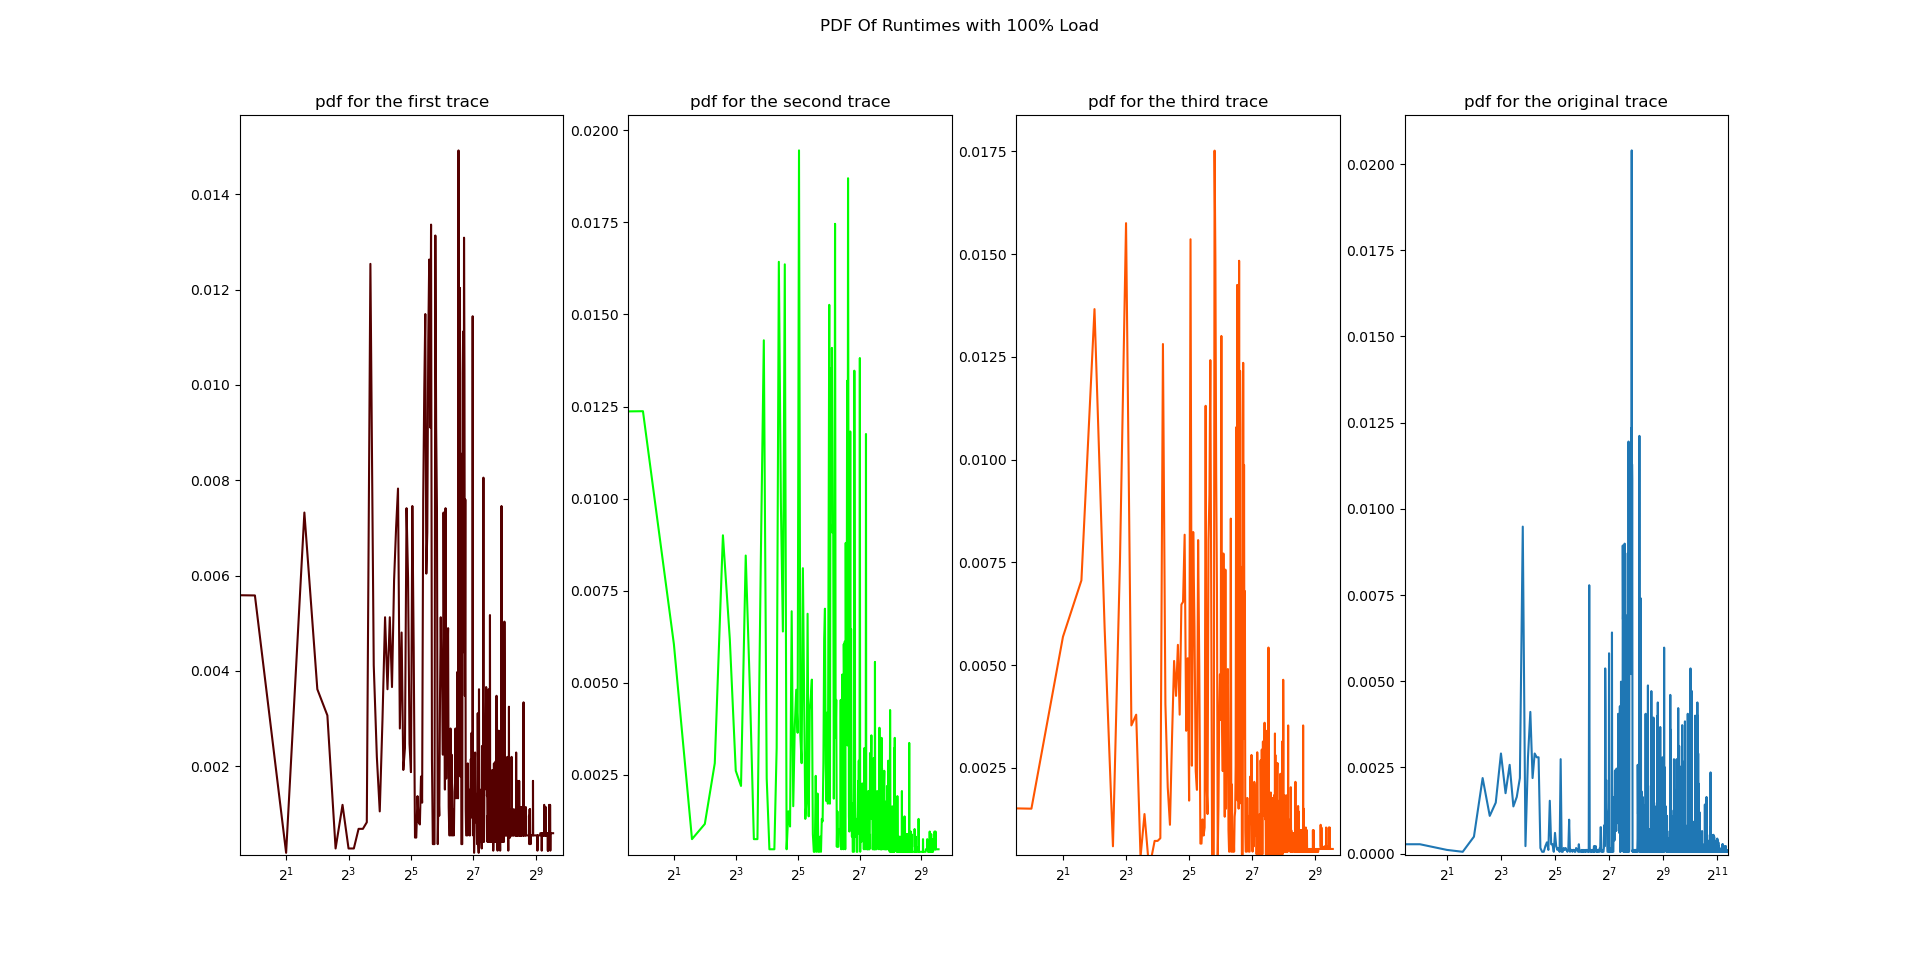
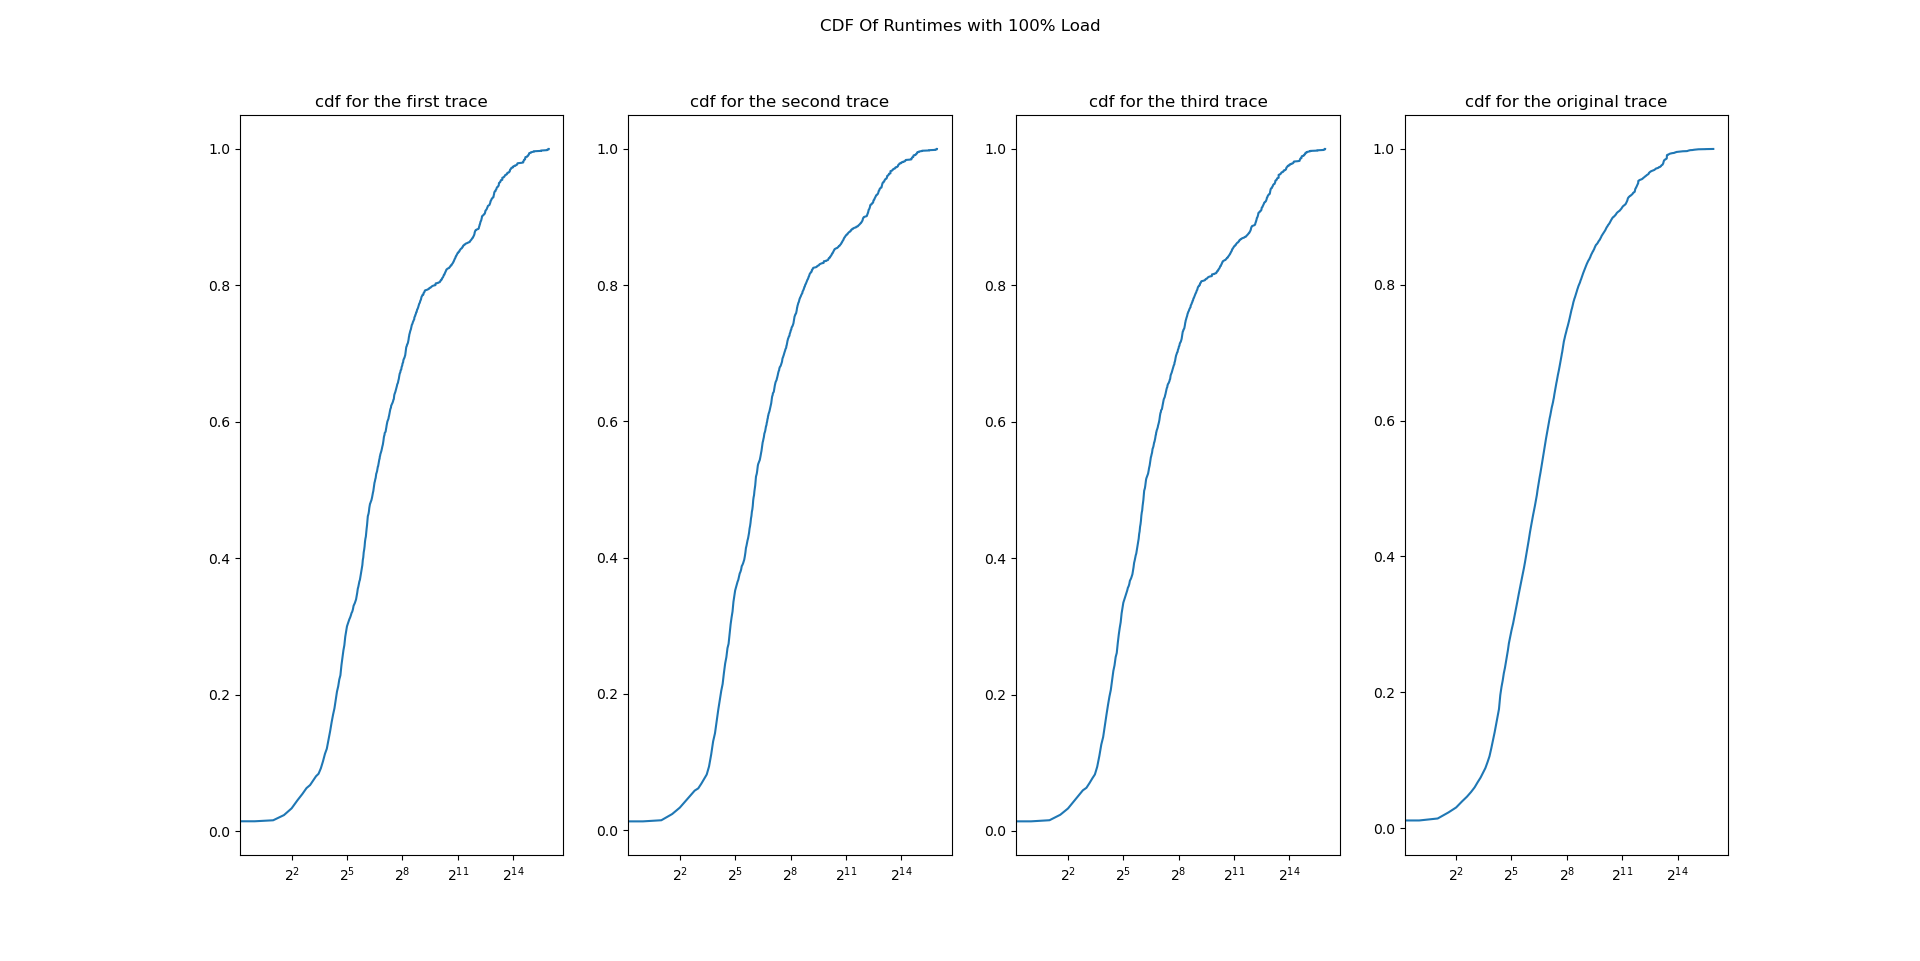
,

diff --git a/Stage9/Validation.py b/Stage9/Validation.py
@@ -3,15 +3,15 @@ import math
 import matplotlib.pyplot as plt
 from hurst import compute_Hc
 from statsmodels.distributions.empirical_distribution import ECDF
-outputload80_1="TEST\\outputload80_1.txt"
-outputload80_2="TEST\\outputload80_2.txt"
-outputload80_3="TEST\\outputload80_3.txt"
-outputload100_1="TEST\\outputload100_1.txt"
-outputload100_2="TEST\\outputload100_2.txt"
-outputload100_3="TEST\\outputload100_3.txt"
-outputload120_1="TEST\\outputload120_1.txt"
-outputload120_2="TEST\\outputload120_2.txt"
-outputload120_3="TEST\\outputload120_3.txt"
+outputload80_1="Output2\\outputload80_1.txt"
+outputload80_2="Output2\\outputload80_2.txt"
+outputload80_3="Output2\\outputload80_3.txt"
+outputload100_1="Output2\\outputload100_1.txt"
+outputload100_2="Output2\\outputload100_2.txt"
+outputload100_3="Output2\\outputload100_3.txt"
+outputload120_1="Output2\\outputload120_1.txt"
+outputload120_2="Output2\\outputload120_2.txt"
+outputload120_3="Output2\\outputload120_3.txt"
 original_log="..\\Stage8\\NASA-iPSC-1993-3.1-cln.SWF"
 Log_load80_1=[]
 Log_load80_2=[]
@@ -147,12 +147,16 @@ def Interarrivals(Log):
         Prev_submit=Submit_time
     for time in Interarrivals_counter:
         Interarrivals_pdf.setdefault(time,Interarrivals_counter[time]/n)
-    for i in range(len(Interarrivals_pdf.keys())):
-        num=0
-        for j in range(i):
-            num+=Interarrivals_pdf[j]
-        Interarrivals_pdf[i]=num
-    return Interarrivals_data,Interarrivals_pdf
+    X=[]
+    Y=[]
+    for i in sorted (Interarrivals_pdf.keys()) : 
+        X.append(i)
+        Y.append(Interarrivals_pdf[i])
+    i=1
+    while i < len(Y):
+        Y[i]=Y[i]+Y[i-1]
+        i+=1
+    return Interarrivals_data,X,Y
 
 def Consumption(Log,boool):
     if boool:
@@ -192,14 +196,18 @@ def Runtimes(Log):
         else:
             Runtimes_counter.setdefault(Runtime,1)
         n+=1
-    for time in Runtimes_counter.keys():
-        Runtimes_pdf.setdefault(time,Runtimes_counter[time]/n)
-    for i in range(len(Runtimes_pdf.keys())):
-        num=0
-        for j in range(i):
-            num+=Runtimes_pdf[j]
-        Runtimes_pdf[i]=num
-    return Runtime_data,Runtimes_pdf
+    for key in Runtimes_counter:
+        Runtimes_pdf.setdefault(key,Runtimes_counter[key]/len(Runtime_data))
+    X=[]
+    Y=[]
+    for i in sorted (Runtimes_pdf.keys()) : 
+        X.append(i)
+        Y.append(Runtimes_pdf[i])
+    i=1
+    while i < len(Y):
+        Y[i]=Y[i]+Y[i-1]
+        i+=1
+    return Runtime_data,X,Y
 
 def UserDistribution(Log):
     UsersIDs=[]
@@ -330,25 +338,37 @@ def LoadMeasurment(Data1,Data2,Data3,Original,title):
     plt.show()
     return
 
-def CDFsCompare(pdf1,pdf2,pdf3,original,load,attrib):
-    fig, (ax1, ax2,ax3,ax4) = plt.subplots(1, 4)
+def CDFsCompare(X1,Y1,X2,Y2,X3,Y3,X,Y,load,attrib):
+    # fig, (ax1, ax2,ax3,ax4) = plt.subplots(1, 4)
+    # fig.suptitle('CDF Of '+attrib+' with '+str(load)+'% Load')
+    # ax1.set_title('cdf for the first trace')
+    # ax2.set_title('cdf for the second trace')
+    # ax3.set_title('cdf for the third trace')
+    # ax4.set_title('cdf for the original trace')
+    # ax1.plot(X1,Y1,label='Trace1')
+    # ax2.plot(X2,Y2,label='Trace2')
+    # ax3.plot(X3,Y3,label='Trace3')
+    # ax4.plot(X,Y,label='Original Trace')
+    # ax1.set_xlabel('Time In Seconds')
+    # ax2.set_xlabel('Time In Seconds')
+    # ax3.set_xlabel('Time In Seconds')
+    # ax4.set_xlabel('Time In Seconds')
+    # ax1.set_ylabel('Probability')
+    # ax1.set_xscale('log',base=2)
+    # ax2.set_xscale('log',base=2)
+    # ax3.set_xscale('log',base=2)
+    # ax4.set_xscale('log',base=2)
+    # plt.show()
+    fig, ax1 = plt.subplots()
     fig.suptitle('CDF Of '+attrib+' with '+str(load)+'% Load')
-    ax1.set_title('cdf for the first trace')
-    ax2.set_title('cdf for the second trace')
-    ax3.set_title('cdf for the third trace')
-    ax4.set_title('cdf for the original trace')
-    Y1=list(pdf1.values())
-    Y2=list(pdf2.values())
-    Y3=list(pdf3.values())
-    Y=list(original.values())
-    ax1.plot(Y1,label='Trace1')
-    ax2.plot(Y2,label='Trace2')
-    ax3.plot(Y3,label='Trace3')
-    ax4.plot(Y,label='Original Trace')
+    ax1.plot(X1,Y1,label='CDF for the first trace')
+    ax1.plot(X2,Y2,label='CDF for the second trace')
+    ax1.plot(X3,Y3,label='CDF for the third trace')
+    ax1.plot(X,Y,label='CDF for the original trace')
+    ax1.set_xlabel('Time In Seconds')
+    ax1.set_ylabel('Probability')
     ax1.set_xscale('log',base=2)
-    ax2.set_xscale('log',base=2)
-    ax3.set_xscale('log',base=2)
-    ax4.set_xscale('log',base=2)
+    ax1.set_yscale('log',base=10)
     plt.show()
     return
 
@@ -611,50 +631,49 @@ with open(original_log, "r") as swf_file:
 
 Original_Log=AdjustThinkTimes(Original_Log)
 #Generate interarrivals lists and pdf
-Interarrivals_data_load80_1,Interarrivals_pdf_load80_1=Interarrivals(Log_load80_1)
-Interarrivals_data_load80_2,Interarrivals_pdf_load80_2=Interarrivals(Log_load80_2)
-Interarrivals_data_load80_3,Interarrivals_pdf_load80_3=Interarrivals(Log_load80_3)
-Interarrivals_data_load100_1,Interarrivals_pdf_load100_1=Interarrivals(Log_load100_1)
-Interarrivals_data_load100_2,Interarrivals_pdf_load100_2=Interarrivals(Log_load100_2)
-Interarrivals_data_load100_3,Interarrivals_pdf_load100_3=Interarrivals(Log_load100_3)
-Interarrivals_data_load120_1,Interarrivals_pdf_load120_1=Interarrivals(Log_load100_1)
-Interarrivals_data_load120_2,Interarrivals_pdf_load120_2=Interarrivals(Log_load120_2)
-Interarrivals_data_load120_3,Interarrivals_pdf_load120_3=Interarrivals(Log_load120_3)
-Interarrivals_data,Interarrivals_pdf=Interarrivals(Original_Log)
-
-CDFsCompare(Interarrivals_pdf_load80_1, Interarrivals_pdf_load80_2, Interarrivals_pdf_load80_3, Interarrivals_pdf, 80, 'Interarrival Times')
-CDFsCompare(Interarrivals_pdf_load100_1, Interarrivals_pdf_load100_2, Interarrivals_pdf_load100_3, Interarrivals_pdf, 100, 'Interarrival Times')
-CDFsCompare(Interarrivals_pdf_load120_1, Interarrivals_pdf_load120_2, Interarrivals_pdf_load120_3, Interarrivals_pdf, 120, 'Interarrival Times')
+Interarrivals_data_load80_1,Xload80_1,Y_load80_1=Interarrivals(Log_load80_1)
+Interarrivals_data_load80_2,Xload80_2,Y_load80_2=Interarrivals(Log_load80_2)
+Interarrivals_data_load80_3,Xload80_3,Y_load80_3=Interarrivals(Log_load80_3)
+Interarrivals_data_load100_1,Xload100_1,Y_load100_1=Interarrivals(Log_load100_1)
+Interarrivals_data_load100_2,Xload100_2,Y_load100_2=Interarrivals(Log_load100_2)
+Interarrivals_data_load100_3,Xload100_3,Y_load100_3=Interarrivals(Log_load100_3)
+Interarrivals_data_load120_1,Xload120_1,Y_load120_1=Interarrivals(Log_load100_1)
+Interarrivals_data_load120_2,Xload120_2,Y_load120_2=Interarrivals(Log_load120_2)
+Interarrivals_data_load120_3,Xload120_3,Y_load120_3=Interarrivals(Log_load120_3)
+Interarrivals_data,X,Y=Interarrivals(Original_Log)
+CDFsCompare(Xload80_1,Y_load80_1, Xload80_2,Y_load80_2, Xload80_3,Y_load80_3, X,Y, 80, 'Interarrival Times')
+CDFsCompare(Xload100_1,Y_load100_1, Xload100_2,Y_load100_2, Xload100_3,Y_load100_3, X,Y, 100, 'Interarrival Times')
+CDFsCompare(Xload120_1,Y_load120_1, Xload120_2,Y_load120_2, Xload120_3,Y_load120_3, X,Y, 120, 'Interarrival Times')
 
 # Generate Consumption lists and pdf
-ConsumptionData_load80_1,avg_load80_1=Consumption(Log_load80_1,False)
-ConsumptionData_load80_2,avg_load80_2=Consumption(Log_load80_2,False)
-ConsumptionData_load80_3,avg_load80_3=Consumption(Log_load80_3,False)
-ConsumptionData_load100_1,avg_load100_1=Consumption(Log_load100_1,False)
-ConsumptionData_load100_2,avg_load100_2=Consumption(Log_load100_2,False)
-ConsumptionData_load100_3,avg_load100_3=Consumption(Log_load100_3,False)
-ConsumptionData_load120_1,avg_load120_1=Consumption(Log_load120_1,False)
-ConsumptionData_load120_2,avg_load120_2=Consumption(Log_load120_2,False)
-ConsumptionData_load120_3,avg_load120_3=Consumption(Log_load120_3,False)
-ConsumptionData,avg_Original=Consumption(Original_Log,True)
-LoadMeasurment(ConsumptionData_load80_1, ConsumptionData_load80_2, ConsumptionData_load80_3, ConsumptionData,'Consumption Graph Of Each One Of The Realistic Traces With 80% Load And The Original Trace')
-LoadMeasurment(ConsumptionData_load100_1, ConsumptionData_load100_2, ConsumptionData_load100_3, ConsumptionData,'Consumption Graph Of Each One Of The Realistic Traces With 100% Load And The Original Trace')
-LoadMeasurment(ConsumptionData_load120_1, ConsumptionData_load120_2, ConsumptionData_load120_3, ConsumptionData,'Consumption Graph Of Each One Of The Realistic Traces With 120% Load And The Original Trace')
+# ConsumptionData_load80_1,avg_load80_1=Consumption(Log_load80_1,False)
+# ConsumptionData_load80_2,avg_load80_2=Consumption(Log_load80_2,False)
+# ConsumptionData_load80_3,avg_load80_3=Consumption(Log_load80_3,False)
+# ConsumptionData_load100_1,avg_load100_1=Consumption(Log_load100_1,False)
+# ConsumptionData_load100_2,avg_load100_2=Consumption(Log_load100_2,False)
+# ConsumptionData_load100_3,avg_load100_3=Consumption(Log_load100_3,False)
+# ConsumptionData_load120_1,avg_load120_1=Consumption(Log_load120_1,False)
+# ConsumptionData_load120_2,avg_load120_2=Consumption(Log_load120_2,False)
+# ConsumptionData_load120_3,avg_load120_3=Consumption(Log_load120_3,False)
+# ConsumptionData,avg_Original=Consumption(Original_Log,True)
+# LoadMeasurment(ConsumptionData_load80_1, ConsumptionData_load80_2, ConsumptionData_load80_3, ConsumptionData,'Consumption Graph Of Each One Of The Realistic Traces With 80% Load And The Original Trace')
+# LoadMeasurment(ConsumptionData_load100_1, ConsumptionData_load100_2, ConsumptionData_load100_3, ConsumptionData,'Consumption Graph Of Each One Of The Realistic Traces With 100% Load And The Original Trace')
+# LoadMeasurment(ConsumptionData_load120_1, ConsumptionData_load120_2, ConsumptionData_load120_3, ConsumptionData,'Consumption Graph Of Each One Of The Realistic Traces With 120% Load And The Original Trace')
 
-# Generate Runtime lists and pdf
-Runtime_data_load80_1,Runtimes_cdf_load80_1=Runtimes(Log_load80_1)
-Runtime_data_load80_2,Runtimes_cdf_load80_2=Runtimes(Log_load80_2)
-Runtime_data_load80_3,Runtimes_cdf_load80_3=Runtimes(Log_load80_3)
-Runtime_data_load100_1,Runtimes_cdf_load100_1=Runtimes(Log_load100_1)
-Runtime_data_load100_2,Runtimes_cdf_load100_2=Runtimes(Log_load100_2)
-Runtime_data_load100_3,Runtimes_cdf_load100_3=Runtimes(Log_load100_3)
-Runtime_data_load120_1,Runtimes_cdf_load120_1=Runtimes(Log_load120_1)
-Runtime_data_load120_2,Runtimes_cdf_load120_2=Runtimes(Log_load120_2)
-Runtime_data_load120_3,Runtimes_cdf_load120_3=Runtimes(Log_load120_3)
-Runtime_data,Runtimes_cdf=Runtimes(Original_Log)
-CDFsCompare(Runtimes_cdf_load80_1, Runtimes_cdf_load80_2, Runtimes_cdf_load80_3, Runtimes_cdf, 80, 'Runtimes')
-CDFsCompare(Runtimes_cdf_load100_1, Runtimes_cdf_load100_2, Runtimes_cdf_load100_3, Runtimes_cdf, 100, 'Runtimes')
-CDFsCompare(Runtimes_cdf_load120_1, Runtimes_cdf_load120_2, Runtimes_cdf_load120_3, Runtimes_cdf, 120, 'Runtimes')
+# # Generate Runtime lists and pdf
+Runtime_data_load80_1,Xload80_1,Y_load80_1=Runtimes(Log_load80_1)
+Runtime_data_load80_2,Xload80_2,Y_load80_2=Runtimes(Log_load80_2)
+Runtime_data_load80_3,Xload80_3,Y_load80_3=Runtimes(Log_load80_3)
+Runtime_data_load100_1,Xload100_1,Y_load100_1=Runtimes(Log_load100_1)
+Runtime_data_load100_2,Xload100_2,Y_load100_2=Runtimes(Log_load100_2)
+Runtime_data_load100_3,Xload100_3,Y_load100_3=Runtimes(Log_load100_3)
+Runtime_data_load120_1,Xload120_1,Y_load120_1=Runtimes(Log_load120_1)
+Runtime_data_load120_2,Xload120_2,Y_load120_2=Runtimes(Log_load120_2)
+Runtime_data_load120_3,Xload120_3,Y_load120_3=Runtimes(Log_load120_3)
+Runtime_data,X,Y=Runtimes(Original_Log)
+CDFsCompare(Xload80_1,Y_load80_1, Xload80_2,Y_load80_2, Xload80_3,Y_load80_3, X,Y, 80, 'Runtimes')
+CDFsCompare(Xload100_1,Y_load100_1, Xload100_2,Y_load100_2, Xload100_3,Y_load100_3, X,Y, 100, 'Runtimes')
+CDFsCompare(Xload120_1,Y_load120_1, Xload120_2,Y_load120_2, Xload120_3,Y_load120_3, X,Y, 120, 'Runtimes')
 
 
 # Generate User Distribution lists and pdf
@@ -830,31 +849,31 @@ CDFsCompare(Runtimes_cdf_load120_1, Runtimes_cdf_load120_2, Runtimes_cdf_load120
 # WeeklyCyclesO=WeeklyCycles(Original_Log)
 # ShowWeeklyCyclesGraph(WeeklyCyclesLoad80_1, WeeklyCyclesLoad80_2, WeeklyCyclesLoad80_3, WeeklyCyclesLoad100_1, WeeklyCyclesLoad100_2, WeeklyCyclesLoad100_3, WeeklyCyclesLoad120_1, WeeklyCyclesLoad120_2, WeeklyCyclesLoad120_3, WeeklyCyclesO)
 
-Days=1
-SubmissionRate,SubmissionRatePDF,SubmissionRateCDF,SubmissionRateECDF  =CreateSubmissionRate(Log_load100_1, Days*24*60*60)
-PlotSubmission(SubmissionRate, SubmissionRatePDF, SubmissionRateCDF, SubmissionRateECDF, Days,100,1)
+# Days=1
+# SubmissionRate,SubmissionRatePDF,SubmissionRateCDF,SubmissionRateECDF  =CreateSubmissionRate(Log_load100_1, Days*24*60*60)
+# PlotSubmission(SubmissionRate, SubmissionRatePDF, SubmissionRateCDF, SubmissionRateECDF, Days,100,1)
 
-SubmissionRate,SubmissionRatePDF,SubmissionRateCDF,SubmissionRateECDF  =CreateSubmissionRate(Log_load100_2, Days*24*60*60)
-PlotSubmission(SubmissionRate, SubmissionRatePDF, SubmissionRateCDF, SubmissionRateECDF, Days,100,2)
+# SubmissionRate,SubmissionRatePDF,SubmissionRateCDF,SubmissionRateECDF  =CreateSubmissionRate(Log_load100_2, Days*24*60*60)
+# PlotSubmission(SubmissionRate, SubmissionRatePDF, SubmissionRateCDF, SubmissionRateECDF, Days,100,2)
 
-SubmissionRate,SubmissionRatePDF,SubmissionRateCDF,SubmissionRateECDF  =CreateSubmissionRate(Log_load100_3, Days*24*60*60)
-PlotSubmission(SubmissionRate, SubmissionRatePDF, SubmissionRateCDF, SubmissionRateECDF, Days,100,3)
+# SubmissionRate,SubmissionRatePDF,SubmissionRateCDF,SubmissionRateECDF  =CreateSubmissionRate(Log_load100_3, Days*24*60*60)
+# PlotSubmission(SubmissionRate, SubmissionRatePDF, SubmissionRateCDF, SubmissionRateECDF, Days,100,3)
 
-SubmissionRate,SubmissionRatePDF,SubmissionRateCDF,SubmissionRateECDF  =CreateSubmissionRate(Log_load80_1, Days*24*60*60)
-PlotSubmission(SubmissionRate, SubmissionRatePDF, SubmissionRateCDF, SubmissionRateECDF, Days,80,1)
+# SubmissionRate,SubmissionRatePDF,SubmissionRateCDF,SubmissionRateECDF  =CreateSubmissionRate(Log_load80_1, Days*24*60*60)
+# PlotSubmission(SubmissionRate, SubmissionRatePDF, SubmissionRateCDF, SubmissionRateECDF, Days,80,1)
 
-SubmissionRate,SubmissionRatePDF,SubmissionRateCDF,SubmissionRateECDF  =CreateSubmissionRate(Log_load80_2, Days*24*60*60)
-PlotSubmission(SubmissionRate, SubmissionRatePDF, SubmissionRateCDF, SubmissionRateECDF, Days,80,2)
+# SubmissionRate,SubmissionRatePDF,SubmissionRateCDF,SubmissionRateECDF  =CreateSubmissionRate(Log_load80_2, Days*24*60*60)
+# PlotSubmission(SubmissionRate, SubmissionRatePDF, SubmissionRateCDF, SubmissionRateECDF, Days,80,2)
 
-SubmissionRate,SubmissionRatePDF,SubmissionRateCDF,SubmissionRateECDF  =CreateSubmissionRate(Log_load80_3, Days*24*60*60)
-PlotSubmission(SubmissionRate, SubmissionRatePDF, SubmissionRateCDF, SubmissionRateECDF, Days,80,3)
+# SubmissionRate,SubmissionRatePDF,SubmissionRateCDF,SubmissionRateECDF  =CreateSubmissionRate(Log_load80_3, Days*24*60*60)
+# PlotSubmission(SubmissionRate, SubmissionRatePDF, SubmissionRateCDF, SubmissionRateECDF, Days,80,3)
 
-SubmissionRate,SubmissionRatePDF,SubmissionRateCDF,SubmissionRateECDF  =CreateSubmissionRate(Log_load120_1, Days*24*60*60)
-PlotSubmission(SubmissionRate, SubmissionRatePDF, SubmissionRateCDF, SubmissionRateECDF, Days,120,1)
+# SubmissionRate,SubmissionRatePDF,SubmissionRateCDF,SubmissionRateECDF  =CreateSubmissionRate(Log_load120_1, Days*24*60*60)
+# PlotSubmission(SubmissionRate, SubmissionRatePDF, SubmissionRateCDF, SubmissionRateECDF, Days,120,1)
 
-SubmissionRate,SubmissionRatePDF,SubmissionRateCDF,SubmissionRateECDF  =CreateSubmissionRate(Log_load120_2, Days*24*60*60)
-PlotSubmission(SubmissionRate, SubmissionRatePDF, SubmissionRateCDF, SubmissionRateECDF, Days,120,2)
+# SubmissionRate,SubmissionRatePDF,SubmissionRateCDF,SubmissionRateECDF  =CreateSubmissionRate(Log_load120_2, Days*24*60*60)
+# PlotSubmission(SubmissionRate, SubmissionRatePDF, SubmissionRateCDF, SubmissionRateECDF, Days,120,2)
 
-SubmissionRate,SubmissionRatePDF,SubmissionRateCDF,SubmissionRateECDF  =CreateSubmissionRate(Log_load120_3, Days*24*60*60)
-PlotSubmission(SubmissionRate, SubmissionRatePDF, SubmissionRateCDF, SubmissionRateECDF, Days,120,3)
+# SubmissionRate,SubmissionRatePDF,SubmissionRateCDF,SubmissionRateECDF  =CreateSubmissionRate(Log_load120_3, Days*24*60*60)
+# PlotSubmission(SubmissionRate, SubmissionRatePDF, SubmissionRateCDF, SubmissionRateECDF, Days,120,3)
 
